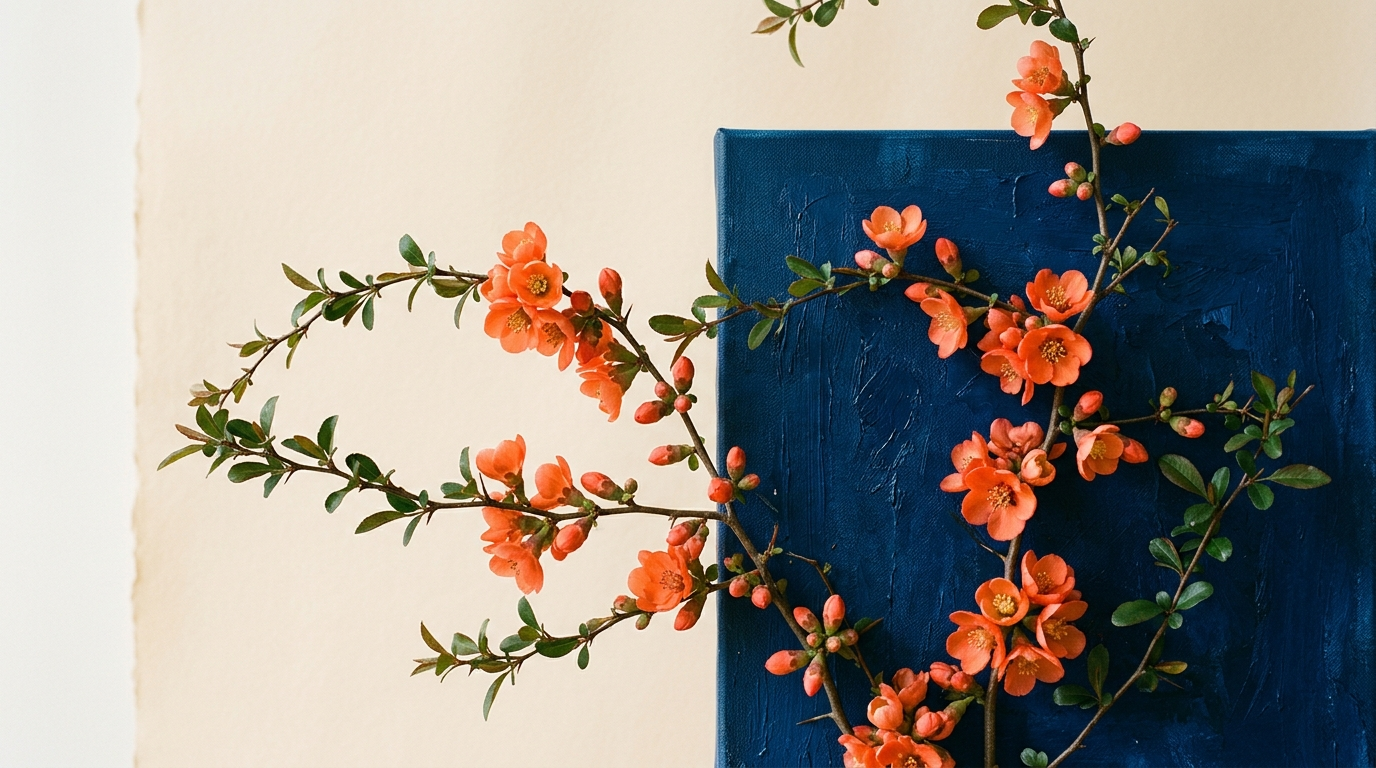
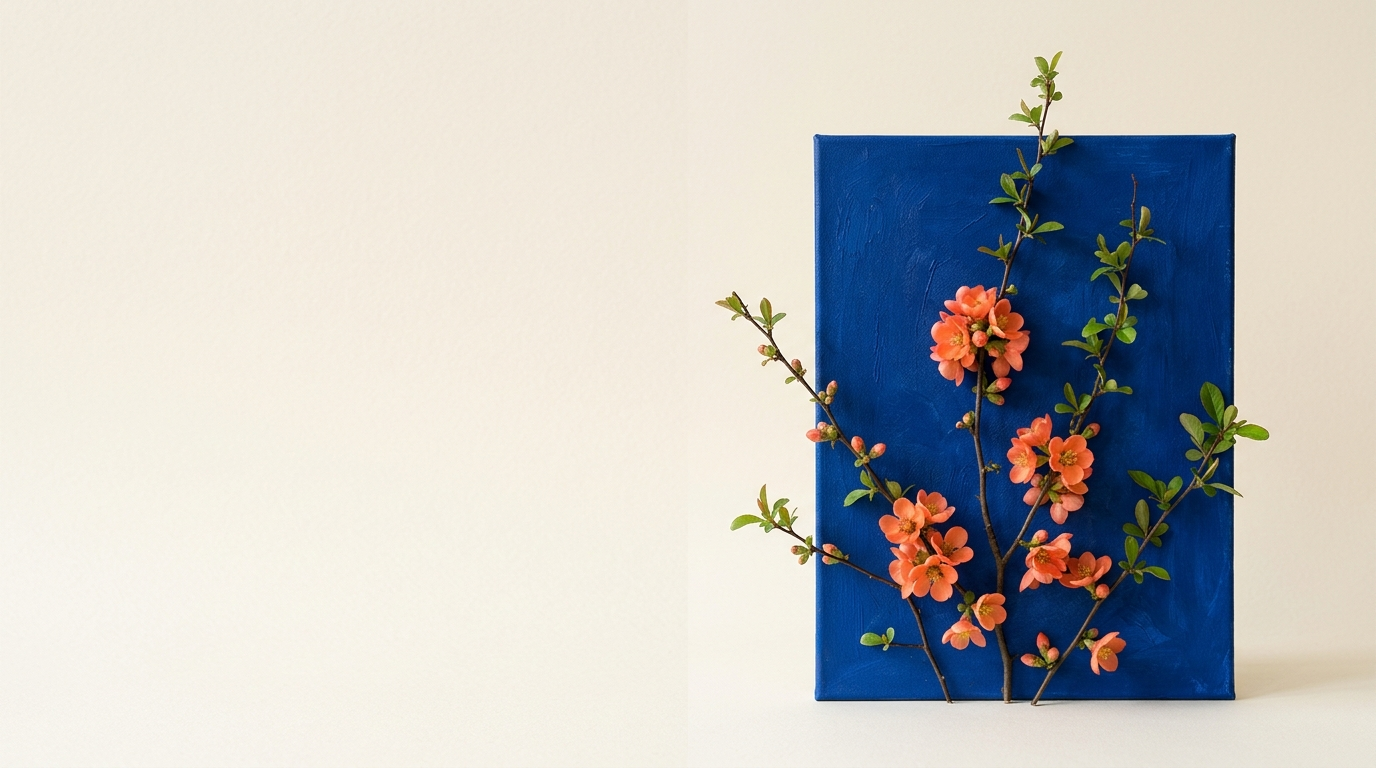
Add comprehensive README and eliminate hero typography-background overlap

diff --git a/README.md b/README.md
@@ -1,0 +1,122 @@
+# Subhrajeet Ganguly - AI / ML Systems Engineer Portfolio
+
+Production-grade personal portfolio and systems showcase for Subhrajeet Ganguly, Computer Science student (Class of 2026, Symbiosis Institute of Technology) specializing in applied machine learning, neural audio forensics, and distributed architectures.
+
+## Live Demo & Repository
+- **GitHub Repository**: https://github.com/subhra015/CV.git
+- **Primary Domain**: https://subhrajeetganguly.vercel.app (or custom deployment)
+
+## Design System & Aesthetic
+Built with an editorial aesthetic inspired by modern minimalist art and tactile publication layouts:
+- **Warm Ivory (`#f5f0e6`)**: Primary canvas background providing organic warmth and high visual contrast.
+- **Deep Editorial Blue (`#1d4872`)**: Primary typographic and structural accent for clarity and authority.
+- **Coral Orange (`#f97d58`)**: High-visibility signal accent for active states, indicators, and primary call-to-actions.
+- **Strict Visual Discipline**: Zero gradients, zero emojis, zero em dashes. Clean, tactile, high-density information architecture.
+
+## Tech Stack
+- **Framework**: Next.js 16 (App Router, Turbopack enabled)
+- **Language**: TypeScript 5 (Strict mode)
+- **Styling**: Tailwind CSS with custom design tokens
+- **Runtime**: Node.js 20+
+
+## Key Architecture & Features
+
+### 1. Hero Section
+- High-resolution editorial artwork background featuring a deep blue canvas and blooming coral quince blossoms.
+- Single bold typography stack: `SUBHRAJEET GANGULY`.
+- Quick action buttons: `EXPLORE WORK`, `VIEW RESUME` (modal with direct PDF view), and `GITHUB`.
+- Academic affiliation kicker: `CLASS OF 2026 • SYMBIOSIS INSTITUTE OF TECHNOLOGY`.
+
+### 2. About & Leadership
+- Dual-focus overview: Applied machine learning and end-to-end systems engineering.
+- Highlighted achievements: 1st Place at the College Entrepreneurship Competition, Student Hospitality Coordinator for ICSIT '25.
+
+### 3. Featured Engineering Projects
+Detailed architecture breakdowns for:
+- **StreamGuard**: Dual-branch streaming architecture (causal waveform CNN and multi-resolution mel-spectrogram) for real-time deepfake audio forensics with calibrated Bayesian confidence under 80ms latency.
+- **DocMind**: Enterprise document question-answering platform combining sparse BM25 matching and pgvector dense embeddings with Reciprocal Rank Fusion (RRF).
+- **Promo Planner Agent**: Multi-agent marketing campaign planning engine using deterministic Python validation gates and Pydantic schemas.
+- **Deepfake Image & Frame Detector**: Fine-tuned ResNet-50 visual artifact classifier built with disciplined data pipelines.
+- **Web Log Anomaly Detection**: Unsupervised security log analyzer using Isolation Forests and behavioral feature extraction.
+- **HarvestIQ**: Microservice architecture connecting crop pricing, weather shock models, and pest vulnerability analysis.
+
+### 4. Technical Stack Matrix
+Segmented technical proficiency displays:
+- Languages: Python (PyTorch, FastAPI, Concurrency), TypeScript / JavaScript, SQL (PostgreSQL / pgvector), C++, Bash, HTML5 / Semantic CSS.
+- AI & ML Frameworks: PyTorch, ONNX Runtime, Hugging Face, LangChain, LlamaIndex, scikit-learn.
+- Web & Backend: FastAPI, Next.js, Node.js, RESTful APIs, WebSockets.
+- DevOps & Tools: Docker, Git, Linux (RH124), Supabase, Vercel.
+
+### 5. Verified Credentials & Certifications
+- Red Hat Certified System Administrator (RH124)
+- Google Cloud Certified Cloud Digital Leader
+- Supervised Machine Learning (Stanford / DeepLearning.AI)
+- Advanced Learning Algorithms (DeepLearning.AI)
+- Postman API Fundamentals Student Expert
+
+### 6. Contact & Telemetry
+- Direct contact access points via email and LinkedIn.
+- In-browser interactive PDF resume modal with quick download option.
+
+## Getting Started Locally
+
+### Prerequisites
+- Node.js 18.18.0 or later
+- npm or yarn
+
+### Installation
+```bash
+# Clone the repository
+git clone https://github.com/subhra015/CV.git
+
+# Navigate into the project folder
+cd CV
+
+# Install dependencies
+npm install
+```
+
+### Development Server
+```bash
+npm run dev
+```
+Open `http://localhost:3000` with your browser to see the live result.
+
+### Production Build
+```bash
+npm run build
+npm run start
+```
+
+## Project Structure
+```
+├── public/
+│   ├── hero_art.jpg           # Curated editorial artwork asset
+│   ├── resume.pdf             # Verified resume document
+│   └── Image.jpeg             # Profile photograph
+├── src/
+│   ├── app/
+│   │   ├── globals.css        # Color tokens and outline utilities
+│   │   ├── layout.tsx         # Root layout with metadata and fonts
+│   │   └── page.tsx           # Main single-page application entry
+│   ├── components/
+│   │   ├── about/             # AboutSection component
+│   │   ├── achievements/      # AchievementsSection component
+│   │   ├── common/            # Navigation, Footer, ResumeModal
+│   │   ├── contact/           # ContactSection component
+│   │   ├── credentials/       # CredentialsSection component
+│   │   ├── hero/              # HeroSection component
+│   │   ├── projects/          # ProjectsSection component
+│   │   └── skills/            # SkillsSection component
+│   ├── data/
+│   │   └── portfolioData.ts   # Structured portfolio data and case studies
+│   └── types/
+│       └── index.ts           # TypeScript interfaces and types
+├── next.config.ts
+├── package.json
+├── tailwind.config.ts
+└── tsconfig.json
+```
+
+## License
+MIT License. Created by Subhrajeet Ganguly.
